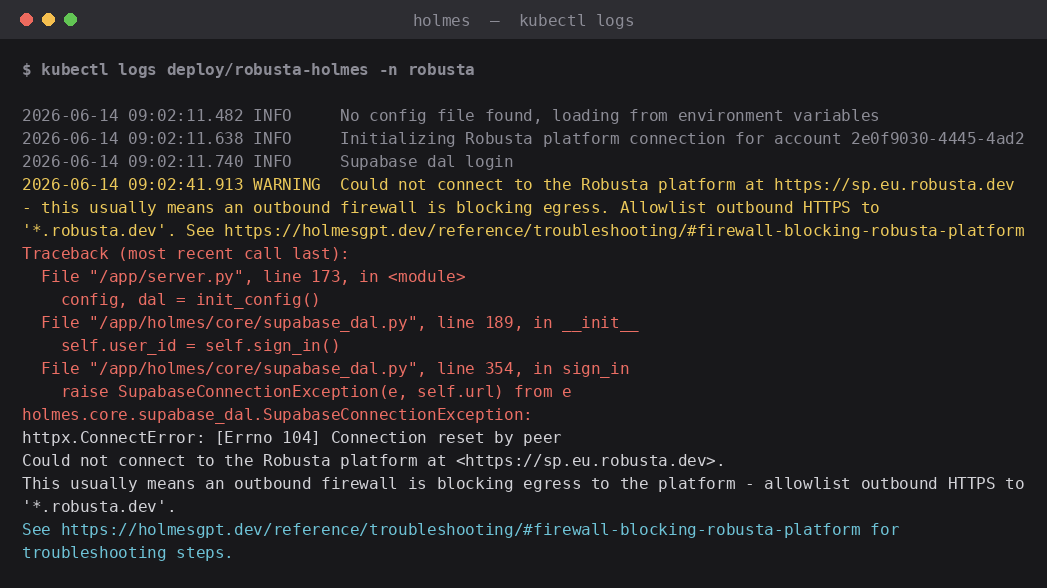
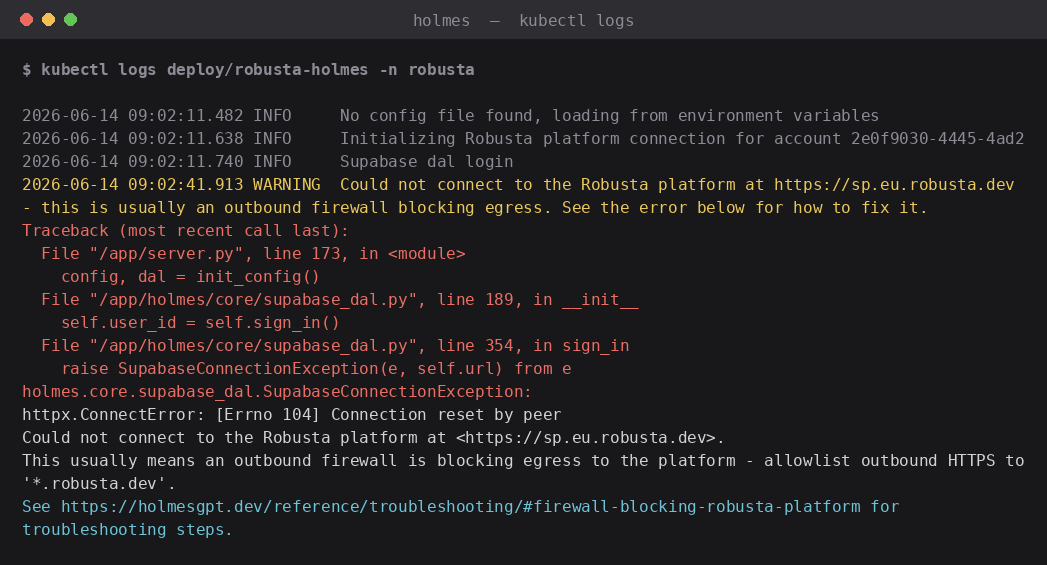
Show the troubleshooting URL once (in the exception, not also the log)
The WARNING log and the exception both carried the docs URL, so it showed up
twice in the startup logs. Keep the URL (and the fix) only in the
SupabaseConnectionException message and reduce the WARNING to a short heads-up
that points to the error below. Regenerate the screenshot to match.

https://claude.ai/code/session_01KVrzw7n3HtrfbSEZtRXZby

diff --git a/tests/core/test_supabase_dal.py b/tests/core/test_supabase_dal.py
@@ -53,17 +53,18 @@ class TestSignIn:
         assert "robusta.dev" in message
         # The message stays short and defers the how-to-fix details to the docs.
         assert "curl" not in message
-        # Both the exception and the log point the user at the troubleshooting docs.
+        # The exception carries the troubleshooting docs link...
         assert FIREWALL_TROUBLESHOOTING_URL in message
-        # An actionable hint is logged before the exception propagates. It is kept
-        # at WARNING (not ERROR) so it doesn't raise a Sentry alert.
-        warnings = [
-            r
+        # ...and a short WARNING heads-up is logged (kept at WARNING, not ERROR, so
+        # it doesn't raise a Sentry alert).
+        assert any(
+            r.levelno == logging.WARNING and "firewall" in r.getMessage().lower()
             for r in caplog.records
-            if r.levelno == logging.WARNING and "firewall" in r.getMessage().lower()
-        ]
-        assert warnings
-        assert any(FIREWALL_TROUBLESHOOTING_URL in r.getMessage() for r in warnings)
+        )
+        # The docs URL should appear once (in the exception), not also in the log.
+        assert all(
+            FIREWALL_TROUBLESHOOTING_URL not in r.getMessage() for r in caplog.records
+        )
 
     def test_connection_refused_raises_firewall_exception(self, mock_dal):
         mock_dal.client.auth.sign_in_with_password.side_effect = (

diff --git a/holmes/core/supabase_dal.py b/holmes/core/supabase_dal.py
@@ -328,15 +328,14 @@ class SupabaseDal:
                 ]
             ):
                 # The platform resolved but refused/reset the connection - almost
-                # always an outbound firewall. Log a short hint (kept at WARNING,
-                # not ERROR, so it doesn't raise a Sentry alert) and point at the
-                # docs for the full troubleshooting steps.
+                # always an outbound firewall. Log a short WARNING heads-up (not
+                # ERROR, so it doesn't raise a Sentry alert); the fix and the docs
+                # link live once, in the exception raised just below.
                 logging.warning(
-                    "Could not connect to the Robusta platform at %s - this usually "
-                    "means an outbound firewall is blocking egress. Allowlist "
-                    "outbound HTTPS to '*.robusta.dev'. See %s",
+                    "Could not connect to the Robusta platform at %s - this is "
+                    "usually an outbound firewall blocking egress. See the error "
+                    "below for how to fix it.",
                     self.url,
-                    FIREWALL_TROUBLESHOOTING_URL,
                 )
                 raise SupabaseConnectionException(e, self.url) from e
             raise
